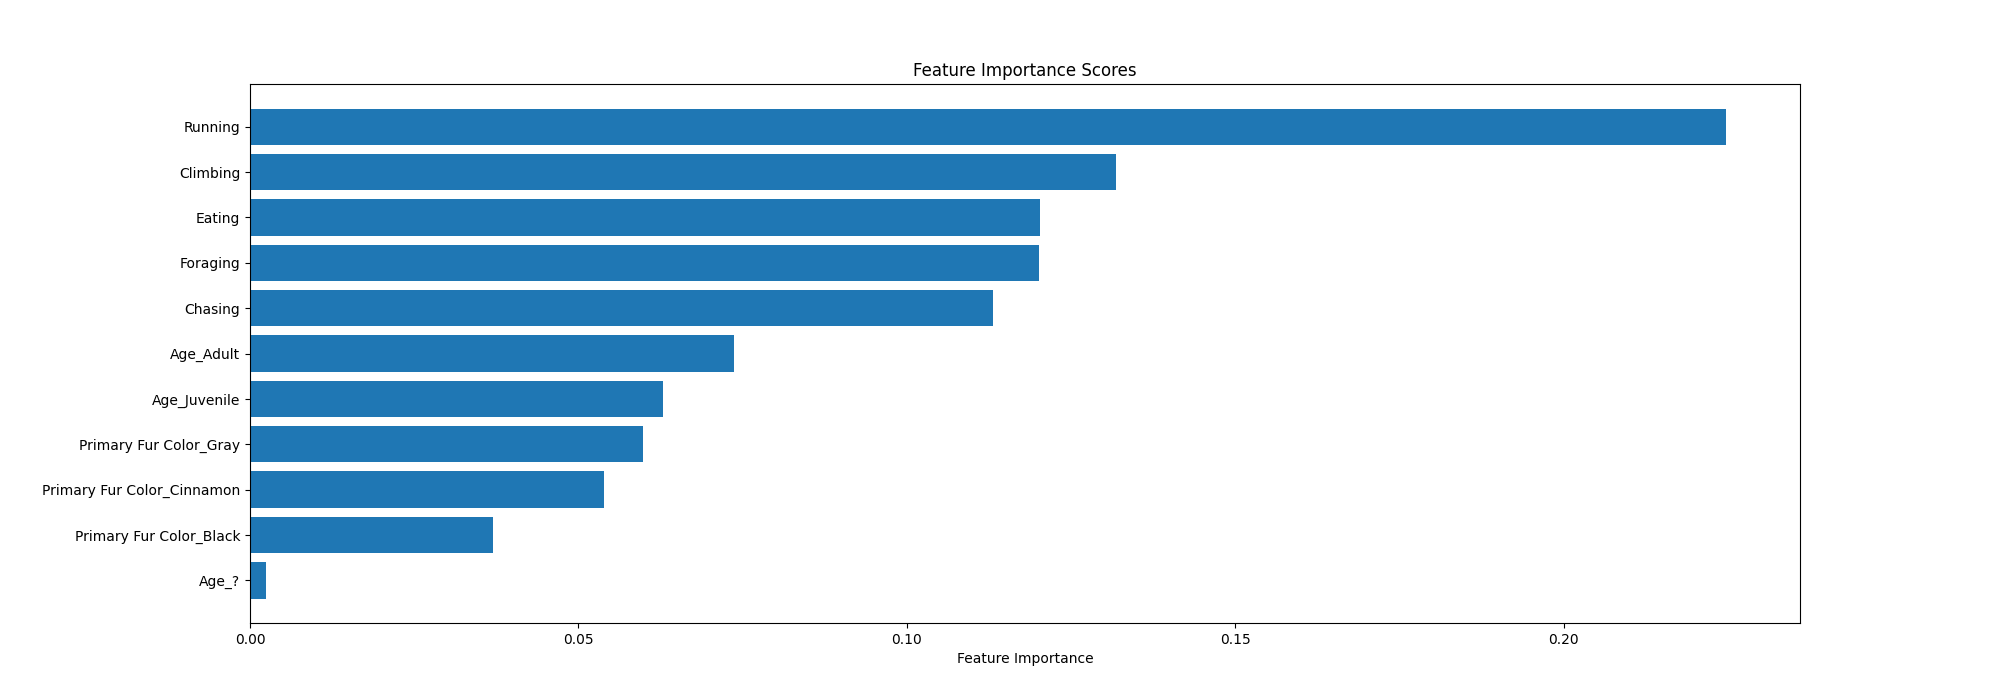
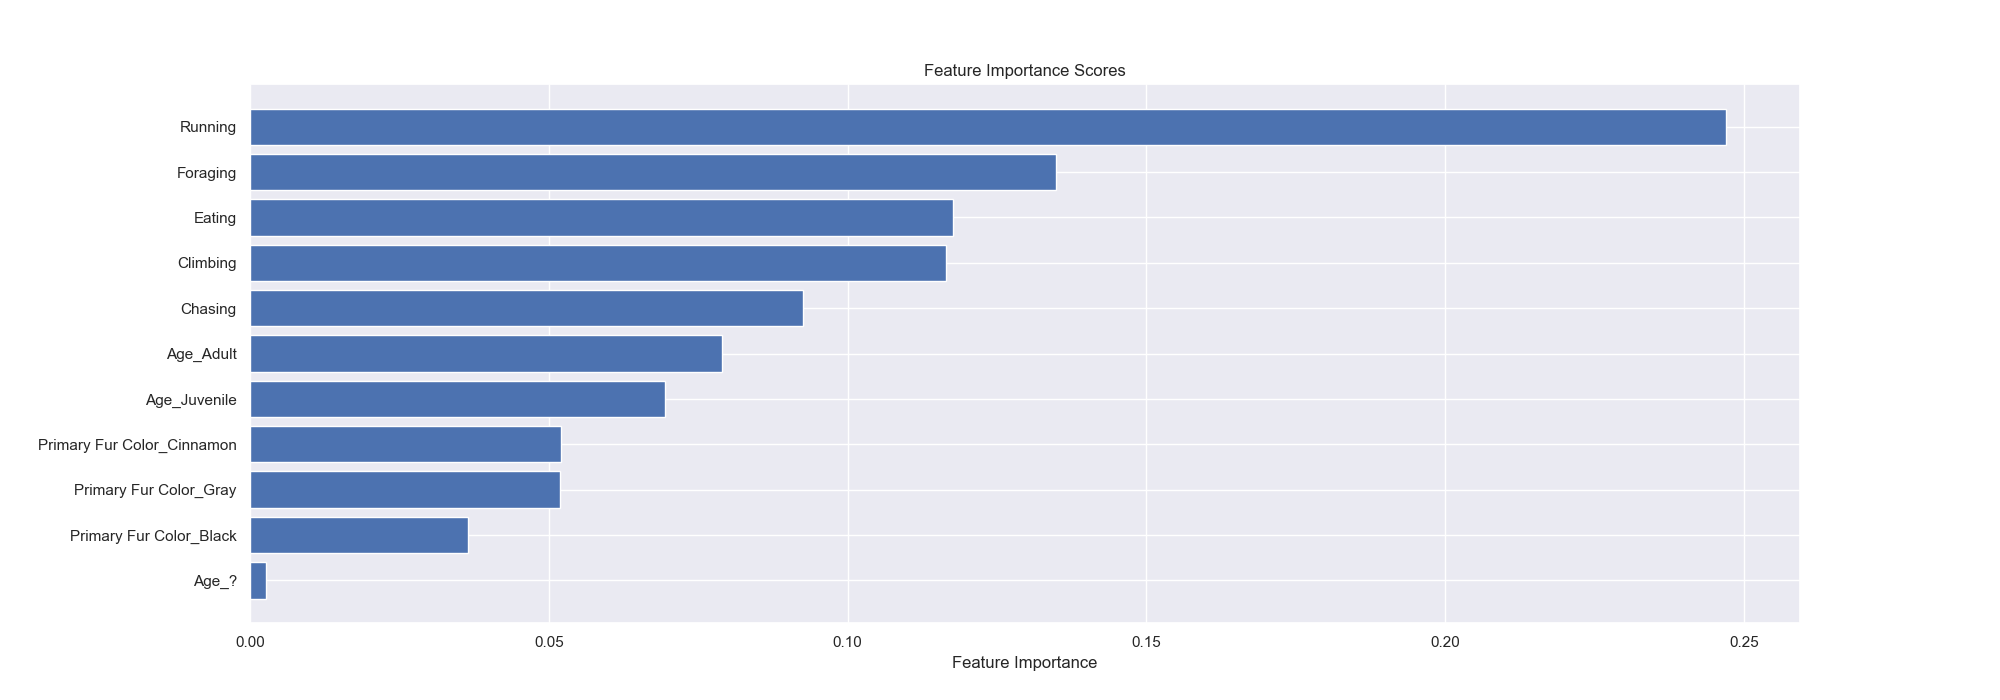
edited imports

diff --git a/mainproject.py b/mainproject.py
@@ -9,13 +9,9 @@ import geopandas as gpd
 import matplotlib.pyplot as plt
 import seaborn as sns
 import numpy as np
-import pickle
-import itertools
 from shapely.geometry import Point
 import contextily as cx
 
-from sklearn.metrics import accuracy_score
-from sklearn.tree import DecisionTreeClassifier
 from sklearn.model_selection import train_test_split
 from sklearn.ensemble import RandomForestClassifier
 
@@ -25,9 +21,9 @@ from typing import Any
 
 import processing
 
+sns.set()
 
 # define functions
-
 
 # research question 1
 def plot_squirrel_sightings(df: pd.DataFrame, shape_file) -> None:
